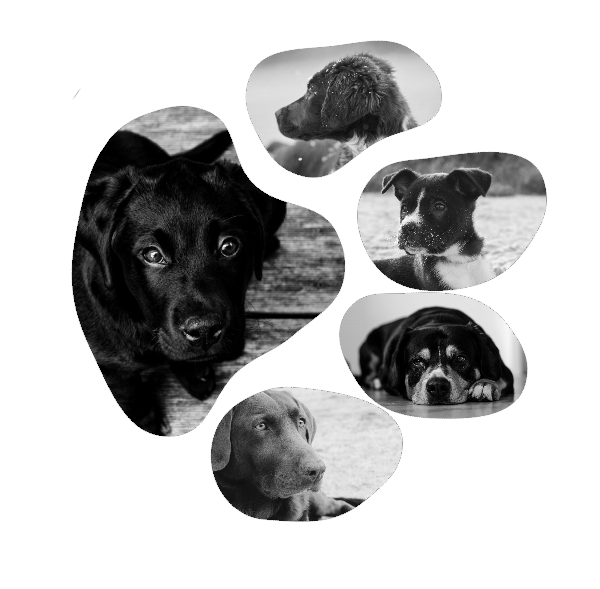
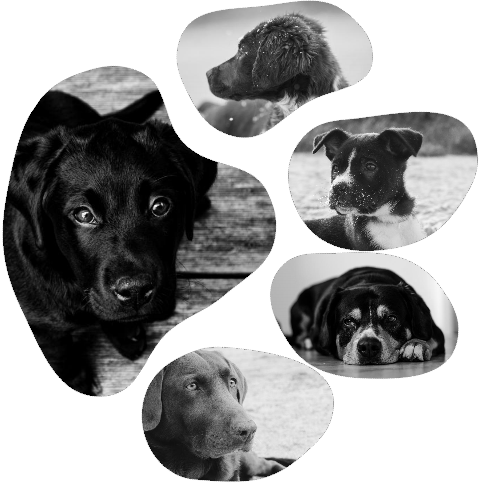
made the nav image an image instead of the background-url for the nav div. Hacked out a concept for overlaying the paw prints with the links.

diff --git a/app/app.css b/app/app.css
@@ -128,20 +128,55 @@ a {
         display: none; }
       @media screen and (min-width: 1024px) {
         .page .header-mobile nav ul {
-          font-size: 1.6em; }
-          .page .header-mobile nav ul li {
-            display: inline-block;
-            padding: 0 40px; }
-            .page .header-mobile nav ul li a {
-              position: relative; }
-              .page .header-mobile nav ul li a .nav-mobile-hover {
+          font-size: 1.6em;
+          /*
+          /*
+                         li {
+                             display: inline-block;
+                             padding: 0 40px;
+          
+                             a {
+                                 position:relative;
+          
+                                 .nav-mobile-hover {
+                                     display:none;
+                                 }
+          
+                                 &:hover, &:active {
+          
+                                     > .nav-mobile-hover {
+                                         display:inline-block;
+                                         position:absolute;
+                                         font-size:0.85em;
+                                         line-height:inherit;
+                                         left: -1.1em;
+                                     }
+                                 }
+                             }
+                         }
+                         */ }
+          .page .header-mobile nav ul > li {
+            position: absolute;
+            display: block;
+            z-index: 2; }
+            .page .header-mobile nav ul > li a {
+              background-color: rgba(0, 0, 0, 0.2);
+              border-radius: 4px;
+              color: white; }
+              .page .header-mobile nav ul > li a .nav-mobile-hover {
                 display: none; }
-              .page .header-mobile nav ul li a:hover > .nav-mobile-hover, .page .header-mobile nav ul li a:active > .nav-mobile-hover {
-                display: inline-block;
-                position: absolute;
-                font-size: 0.85em;
-                line-height: inherit;
-                left: -1.1em; } }
+          .page .header-mobile nav ul > li:first-child {
+            top: 180px;
+            left: 220px; }
+          .page .header-mobile nav ul > li:nth-child(2) {
+            top: 300px;
+            left: 330px; }
+          .page .header-mobile nav ul > li:nth-child(3) {
+            top: 430px;
+            left: 275px; }
+          .page .header-mobile nav ul > li:last-child {
+            top: 530px;
+            left: 190px; } }
   .page::after {
     content: "";
     clear: both;
@@ -152,11 +187,9 @@ a {
     @media screen and (min-width: 1024px) {
       .page .nav-desktop {
         display: block;
-        background: url("components/img/alt-dogs-in-print-bw.png");
         min-height: 550px;
         width: 550px;
-        float: left;
-        padding-top: 12px; } }
+        float: left; } }
   .page .content {
     background: blue; }
     @media screen and (min-width: 1024px) {

diff --git a/app/components/scss/main.scss b/app/components/scss/main.scss
@@ -209,7 +209,46 @@ a {
 
            @include desktop {
                font-size:1.6em;
+               //display:none;
 
+               &>li {
+                   position:absolute;
+                   display:block;
+                   z-index:2;
+
+                   a {
+                       background-color: rgba(0,0,0,0.2);
+                       border-radius: 4px;
+                       color:$text-secondary;
+
+                       .nav-mobile-hover {
+                           display: none;
+                       }
+                   }
+               }
+
+               &>li:first-child {
+                   top: 180px;
+                   left:220px;
+               }
+
+               &>li:nth-child(2) {
+                   top: 300px;
+                   left:330px;
+               }
+
+               &>li:nth-child(3) {
+                   top: 430px;
+                   left:275px;
+               }
+
+               &>li:last-child {
+                   top: 530px;
+                   left:190px;
+               }
+
+/*
+/*
                li {
                    display: inline-block;
                    padding: 0 40px;
@@ -233,6 +272,7 @@ a {
                        }
                    }
                }
+               */
            }
        }
    }
@@ -255,11 +295,10 @@ a {
 
         @include desktop {
             display:block;
-            background:url('components/img/alt-dogs-in-print-bw.png');
+     //       background:url('components/img/alt-dogs-in-print-bw.png');
             min-height:550px;
             width:550px;
             float:left;
-            padding-top:12px;
         }
     }
     

diff --git a/app/index.html b/app/index.html
@@ -54,6 +54,7 @@
             </div>
 
             <div class="nav-desktop">
+                <img src="components/img/alt-dogs-in-print-bw.png"/>
             </div>
 
             <div class="content">
